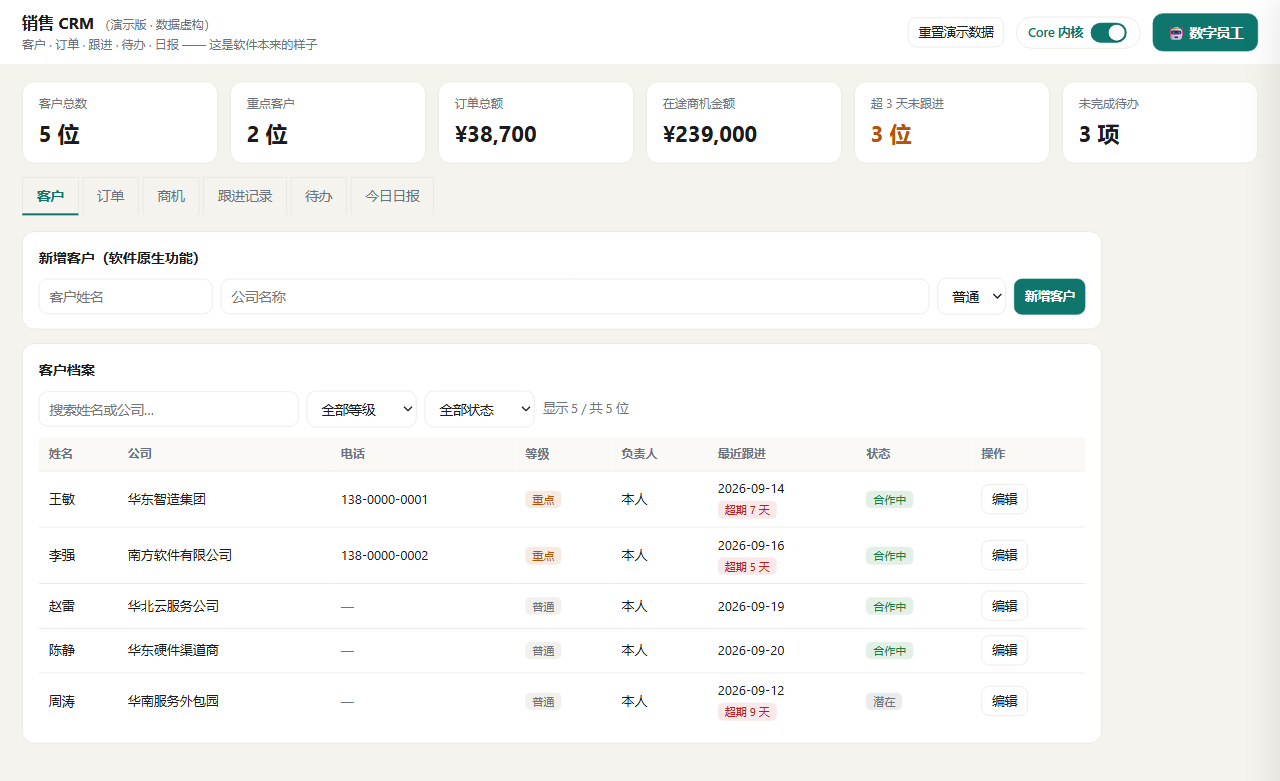
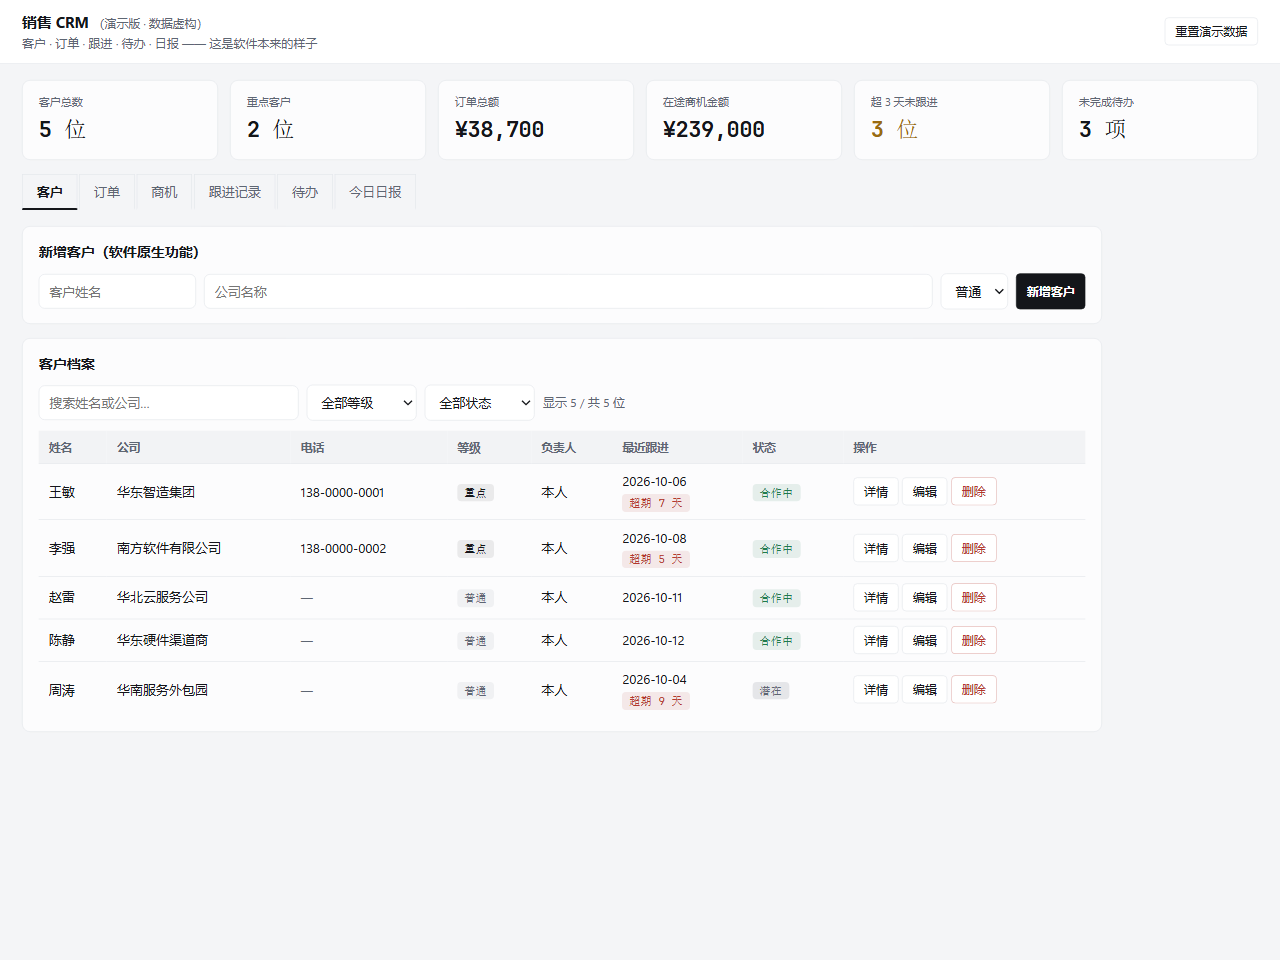
docs(shanghai): 白皮书与门面同步 host_e 纯宿主+灵动岛跨进程新形态
- 作品介绍 5.2 改为：零 AI 代码的纯 CRM 宿主，由独立桌面灵动岛选销售专员
  经本地 HTTP(127.0.0.1:8200) 跨进程操控；图10 换纯 CRM 新图（无 AI 入口），
  图11 改为灵动岛工作台跨进程图，删除重复的图13
- 摘要句、架构章、宿主表 host_e 行、5.3 灵动岛段同步跨进程表述
- 新增《录制清单 v0.9.0》：约 3 分钟 11 分镜，纯 CRM 被灵动岛跨进程操控开场
- shanghai.md 截止回刷 10-16 24:00（已延期），赛道策略段同步纯宿主形态
- comparison 中英数字漂移订正：834 测试 / 8 示例宿主

diff --git a/docs/competitions/shanghai/录制清单-v0.9.0.md b/docs/competitions/shanghai/录制清单-v0.9.0.md
@@ -1,0 +1,117 @@
+# 上海开源赛 · 演示视频录制清单（v0.9.0 新形态 · 约 3 分钟）
+
+> 形态变化（相对 9-25 旧版）：host_e 不再内嵌 AI 抽屉，回归**一个普通的销售 CRM**；
+> AI 交互全部上收到桌面**灵动岛**——一个悬浮的"数字员工工作台"，选"销售专员"后
+> 跨进程（127.0.0.1:8200）操控这个没有任何 AI 代码的 CRM。这是本版最重要的叙事：
+> **宿主软件一行 AI 都不用写，Core 是独立的、可后装的"智能内核"。**
+>
+> 纯字幕、无配音、无背景音乐；统一转场；等待片段加速；每段录完停 2 秒。
+
+---
+
+## 一、录前准备（约 10 分钟，先全部启动并自检）
+
+### 1. 终端 A：启动纯 CRM（不要让它开 AI，它本来就没有）
+```
+uv run python examples/host_e_sales_crm/web_app.py
+```
+- 浏览器自动打开 http://127.0.0.1:8200 ，是**纯 CRM**（客户 / 订单 / 商机三个视图）。
+- 录前先点页面上的"重置演示数据"，保证客户数、金额是初始值（5 客户 / ¥38,700）。
+- 若浏览器没自动开，手动访问 8200。
+
+### 2. 终端 B：启动灵动岛（接真实模型）
+```
+uv run python -m shell.desktop --live
+```
+- 桌面出现悬浮球（灵动岛）。确认项目根 `.env` 已配好模型（当前是 agnes-2.5-flash 免费段）。
+- 想录得顺：第一笔用默认 `partial`（展示一次"批准"弹窗，体现安全），后面在齿轮里切到"无需审批"。
+  - 也可直接全程免审批：`uv run python -m shell.desktop --live --permission auto`。
+- 全局热键 **Ctrl+Alt+Y**：在任何软件里按下，都会把灵动岛拉到前台并展开。
+
+### 3. 可选：两个真实开源软件（用于"通用性"佐证段）
+- Mealie 容器（食谱管理，已在跑）：http://127.0.0.1:9925
+  - 它的网页壳：`uv run python examples/host_i_mealie/web_app.py` → http://127.0.0.1:8203
+- Actual Budget（记账）：`uv run python examples/host_j_actual/web_app.py` → http://127.0.0.1:8240
+- 时间紧可只录主秀（CRM），Mealie 保留，Actual 取舍。
+
+### 4. 录屏与窗口
+- 录屏：Win+G 或 OBS，1080p。
+- 浏览器窗口拉到屏幕约 70% 靠左，给灵动岛浮窗在右侧留位置。
+- 再开：① Gitee 仓库页 https://gitee.com/Gi-Tuu/yai-agent-core ；② VS Code 打开
+  `examples/host_a_notes/run.py`（5 行接入）；③ 一个终端备好 `uv run pytest`。
+- 提前在浏览器登一次 Gitee，避免录到登录。
+
+---
+
+## 二、分镜表（总时长约 2 分 50 秒）
+
+| # | 时长 | 画面操作 | 屏幕字幕（纯字幕，无配音） |
+|---|---|---|---|
+| 1 | 0:00–0:10 | Gitee 仓库首页，缓慢上滑，停在 README 标题与徽章 | "YAI Agent Core —— 进程内嵌入式自适应 Agent 内核"；"MIT 开源 · 内核零硬依赖 · Agent 世界的 SQLite" |
+| 2 | 0:10–0:25 | 终端跑 `uv run pytest`，等全绿后给结尾汇总行一个特写（等待可 2 倍速） | "830+ 项离线测试全绿 · 覆盖率 96% · 不依赖网络与 API Key" |
+| 3 | 0:25–0:40 | VS Code 展示 `host_a_notes/run.py`，镜头停在"声明函数 + 一行 AgentCore" | "宿主只声明普通函数，意图理解、路由、工具调用、记忆全部交给 Core" |
+| 4 | 0:40–0:55 | 切到 8200 CRM：依次点客户 / 订单 / 商机，展示这是一个**普通业务软件**，页面无任何 AI 入口 | "这是一个销售 CRM——它本身不含一行 AI 代码" |
+| 5 | 0:55–1:05 | 鼠标停在 CRM 上，按 **Ctrl+Alt+Y**；灵动岛球被拉到前台并展开为面板，浮在 CRM 右上角 | "AI 不在应用里，而在一个独立的桌面灵动岛里" |
+| 6 | 1:05–1:15 | 面板左侧专员手风琴，点"销售专员"；可短暂扫过仓库 / 笔记 / 陪伴专员 | "一个灵动岛，切换多个专员，每个专员对应一个软件" |
+| 7 | 1:15–1:50 | 保持 CRM 可见，在灵动岛输入框依次输入下面"已验证话术"，每句停 2 秒看结果；第一笔写操作出现"批准"卡片时点"允许"（体现安全），随后在齿轮里把审批切到"无需审批" | 见下方话术；核心字幕："一句话，Core 自己路由、发现工具、跨进程写入；CRM 页面自动刷新出新数据" |
+| 8 | 1:50–2:05 | 点齿轮：展示 Core 开关、审批三档（全部/部分/无需）、工具管理、学习面板、自动收回开关 | "权限三档、工具可管理、路由会自学习——能力边界始终由宿主掌控" |
+| 9 | 2:05–2:25 | 切 Mealie（9925 或 8203 壳）：输入"今晚做番茄炒蛋，需要买什么食材"，看它串起搜菜→看食材 | "换一个真实开源软件 Mealie（食谱管理），同样的内核直接接入" |
+| 10 | 2:25–2:45 | 切 Actual Budget（8240）：问一句本月预算/记账相关（或演示委派/子员工） | "再换 Actual Budget（记账）：同一内核，不同宿主，能力自适应" |
+| 11 | 2:45–2:55 | 切回 Gitee，停在架构图 / 一句话定位，最后给仓库地址特写 | "让已有软件，用最小成本获得 Agent 能力"；"gitee.com/Gi-Tuu/yai-agent-core" |
+
+> 时间不够时，第 10 段（Actual）可删，保留 Mealie 一个真实软件佐证即可；总时长压到 2 分 35 秒。
+
+---
+
+## 三、第 7 段：已在真机验证过的话术（照念即可，保证可复现）
+
+这些话术在当前 main + agnes-2.5-flash + 8200 上已端到端跑通，跨进程真实写库、读回、按需能力都正常。
+
+1. **写客户（展示授权 + 自动刷新）**
+   - 输入：`请新增一位客户，姓名叫"林晚"，公司是"晚星贸易"，等级普通。`
+   - 预期：路由 `react` → 调 `add_customer`（partial 挡位弹批准，点允许）→ 客户列表自动轮询出现"林晚"。
+2. **录订单 / 搜索（展示写后读）**
+   - 输入：`给林晚录一笔软件订单，金额 20000 元，区域华南。`
+   - 输入：`搜一下重点客户，看看林晚的档案。`
+   - 预期：订单视图出现新订单；搜索能查到档案。
+3. **按需能力（展示"发现工具"，这是亮点，务必录）**
+   - 输入：`广州明天要去外勤，需要带伞吗？`
+   - 预期：触发"按需发现"，调用 `get_visit_weather` → 回答"阵雨，建议带伞"。
+   - 输入：`给客户报 10000 元的价，按 13% 增值税，价税合计多少？`
+   - 预期：调用 `calc_quote_with_tax` → "不含税 10000，税 1300，价税合计 11300"。
+
+> 录完务必在 CRM 点"重置演示数据"，把林晚和测试订单清掉，避免后面段落数据不一致。
+
+---
+
+## 四、灵动岛操作要点（避免录制时找不到）
+
+- **呼出/展开**：点悬浮球，或在任意软件按 Ctrl+Alt+Y。
+- **收回成球**：鼠标移出面板后会自动收回（默认开启，约 150ms 延迟）；齿轮里可关"自动收回"。
+- **选专员**：面板左侧手风琴，点专员名展开；销售员显示就绪需要 8200 CRM 已启动（启动顺序：先 CRM，再在岛上选销售）。
+- **权限三档**：齿轮 → 审批模式。
+  - 全部审批：每个工具都问；
+  - 部分审批（默认）：读类自动放行，写操作问；
+  - 无需审批：全自动，录屏最顺，但少了安全展示。
+- **Core 开关**：齿轮里可整体停用 Core（停用后专员只走离线演示）。
+- **球位置**：拖动后记忆；单实例已做，重复启动只会展开已有气泡，不会开两个。
+
+---
+
+## 五、录制与剪辑规范
+
+- 鼠标移到目标位置后停稳再操作，别乱晃；每段录完停 2 秒，方便剪。
+- 终端、模型等待的片段用 2 倍速，对话和结果保持原速。
+- 统一一种转场（建议简单叠化或直切），不要每段换花样。
+- 字幕用后期压制（纯字幕，**不要 AI 配音、不要背景音乐**）。
+- 最后一段语音/字幕要完整说完再结束，画面不够就补一段定格。
+- 剪辑只保留：Gitee / pytest / 5 行接入 / 纯 CRM / 灵动岛办单 / Mealie（/ Actual）/ 收尾。
+- 录完清理临时文件、关掉不再需要的终端和容器。
+
+---
+
+## 六、录完后
+
+1. 成片导出，命名如 `YAI_上海开源赛_v0.9.0.mp4`，上传 B 站拿公开链接。
+2. 把链接同步到《更新邮件 v0.9.0》草稿与提交材料。
+3. 邮件 / 新 PDF / 提交动作**等本人确认后再发**（oscc@oschina.cn，截止 10-16 24:00）。

diff --git a/docs/competitions/shanghai.md b/docs/competitions/shanghai.md
@@ -7,16 +7,16 @@
 
 | 节点 | 时间 | 来源 |
 |---|---|---|
-| 报名 + 材料提交截止 | **10 月 11 日 24:00** | 官网 09-20 |
-| 专家评审（质量审核/评分/复核） | 10 月 12–15 日 | 08-12 启动公告 |
-| 总决赛名单公布（30 个项目，每赛道 10 个） | 10 月 16 日 | 08-12 启动公告 |
+| 报名 + 材料提交截止 | **10 月 16 日 24:00（已延期）** | 官网延期口径 |
+| 专家评审（质量审核/评分/复核） | 截止后（原 10 月 12–15 日，延期后顺延） | 以官方最新公告为准 |
+| 总决赛名单公布（30 个项目，每赛道 10 个） | 原定 10 月 16 日，截止延期后顺延 | 以官方最新公告为准 |
 | 线下总决赛（路演/问答/终审/颁奖，当日公布） | **10 月 29 日** | 官网 09-20（08-12 旧公告写 10-24 张江科学会堂，**以官网为准，提交前再核一次**） |
 
 ## 报名与提交流程（已核实）
 
 1. 先在官网填报名表单（"先提交基础信息即可锁定报名席位，后续可逐步完善材料"）。
 2. 组委会资格审核后发**报名确认邮件**。
-3. 按邮件指引把材料**打包附件**，于 10-11 24:00 前发 **oscc@oschina.cn**。
+3. 按邮件指引把材料**打包附件**，于 10-16 24:00 前发 **oscc@oschina.cn**。
 4. 材料三件套：
    - **代码仓库链接**（公开、完整可运行）
    - **作品介绍文档**（推荐 PDF；项目背景 / 技术架构 / 应用场景 / 创新点）
@@ -29,7 +29,7 @@
 - **智算云赛道**：征集"支撑 AI 应用开发与运行的组件、框架或平台，让 AI 在云端跑起来、跑得好、跑得省"，范围从底层异构算力调度/GPU 池化、分布式训练与推理加速，**"到上层 RAG、智能体框架与 MLOps 平台"**，再到多云管理、边云协同与成本优化；受众核心是**在其上做应用开发的工程师**。
 - **开源 AI 工具赛道**：征集"**直接面向用户**的 AI 应用……项目自带完整的产品形态，使用者除程序员以外也可以来自各行各业，价值打开即兑现"（行业智能体、AI 开发工具、AIGC 工具、数据处理/微调/评测）。
 
-**最终决策（2026-09-21，与用户确认）：投开源 AI 工具赛道。** 早期调研曾据"YAI 是 Library-first 内核、受众是开发者"判定智算云；为满足"开源 AI 工具"要求的**完整产品形态**，策略是以 **host_e 销售 CRM 数字员工作为打开即用的产品门面**（零 AI 依赖也完整可用、嵌入 core 即得 AI 抽屉），YAI Agent Core 作为其开源的"应用 AI 化引擎"——既面向终端用户（host_e 成品），又面向开发者（可内嵌内核）。作品介绍与视频均以 host_e 为产品本体、内核为工具底座。
+**最终决策（2026-09-21，与用户确认；2026-10-13 按新形态更新）：投开源 AI 工具赛道。** 早期调研曾据"YAI 是 Library-first 内核、受众是开发者"判定智算云；为满足"开源 AI 工具"要求的**完整产品形态**，策略是以 **host_e 销售 CRM 作为打开即用的纯宿主产品门面**（零 AI 代码、不依赖 Core 也完整可用；AI 由独立桌面灵动岛经本地 HTTP 跨进程后装增强，网页无任何 AI 入口），YAI Agent Core 作为其开源的"应用 AI 化引擎"——既面向终端用户（纯 CRM + 灵动岛成品），又面向开发者（可进程内内嵌，也可由独立工作台跨进程接入）。作品介绍与视频均以 host_e 与灵动岛为产品本体、内核为工具底座。
 
 - 每项目限一个赛道；同一主体可投不同项目到不同赛道。
 - 拿不准可先报名，资格审核时组委会会归类并给调整建议。
@@ -64,5 +64,5 @@
 - [x] docs/releases/v0.2.0.md（Release notes 源；tag/Release 由用户本人执行）
 - [x] README 门面（hero 发现闭环图 + 原生 CRM 图）
 - [ ] 3–4 min 演示视频（用户录制/补段7 host_e 发现闭环，脚本见 演示视频脚本.md，口播数字 241）
-- [ ] 官网报名表单（用户本人）→ 等确认邮件 → 打包发邮件（10-11 24:00 截止）
+- [ ] 官网报名表单（用户本人）→ 等确认邮件 → 打包发邮件（10-16 24:00 截止，已延期）
 - [ ] 版本号拍板 + 打 tag + GitHub Release 挂视频（用户本人执行）

diff --git a/docs/comparison.en.md b/docs/comparison.en.md
@@ -35,7 +35,7 @@
 | Permission control | Host provides the PermissionPolicy SPI; read/write graded, writes can be human-authorized | Implemented by the app | Implemented by the app | Platform permission model | Platform model |
 | Deployment requirements | Follows the host; an optional FastAPI battery and Docker example are provided | Deployed by the app | Deployed by the app | Must deploy and operate the platform | Just sign up |
 | Offline testable | The full suite is offline (fake models/MockTransport/injected clocks), no network or keys | Testable, you mock yourself | Testable, you mock yourself | Depends on the platform running | Depends on the platform |
-| Maturity | A new single-person project; 517 tests, 7 example hosts | Mature large ecosystem | Mature community | Mature platform (156K+ stars) | Commercial product |
+| Maturity | A new single-person project; 834 tests, 8 example hosts | Mature large ecosystem | Mature community | Mature platform (156K+ stars) | Commercial product |
 
 ## 3. YAI's differentiating claims (mapped to "technical innovation" scoring)
 

diff --git a/docs/comparison.md b/docs/comparison.md
@@ -33,7 +33,7 @@
 | 权限控制 | 宿主提供 PermissionPolicy SPI；读写分级、写操作可人工授权 | 应用自行实现 | 应用自行实现 | 平台权限模型 | 平台模型 |
 | 部署要求 | 随宿主；另提供可选 FastAPI Battery 与 Docker 示例 | 应用自行部署 | 应用自行部署 | 需部署并运维平台 | 仅注册账号 |
 | 离线可测 | 全量测试离线（假模型/MockTransport/注入时钟），不依赖网络与 Key | 可测，需自行 mock | 可测，需自行 mock | 依赖平台运行 | 依赖平台 |
-| 成熟度 | 单人新项目，517 项测试、7 个示例宿主 | 成熟大生态 | 成熟社区 | 成熟平台（156K+ Star） | 商业产品 |
+| 成熟度 | 单人新项目，834 项测试、8 个示例宿主 | 成熟大生态 | 成熟社区 | 成熟平台（156K+ Star） | 商业产品 |
 
 ## 3. YAI 的差异化主张（对应"技术创新"评分）
 
